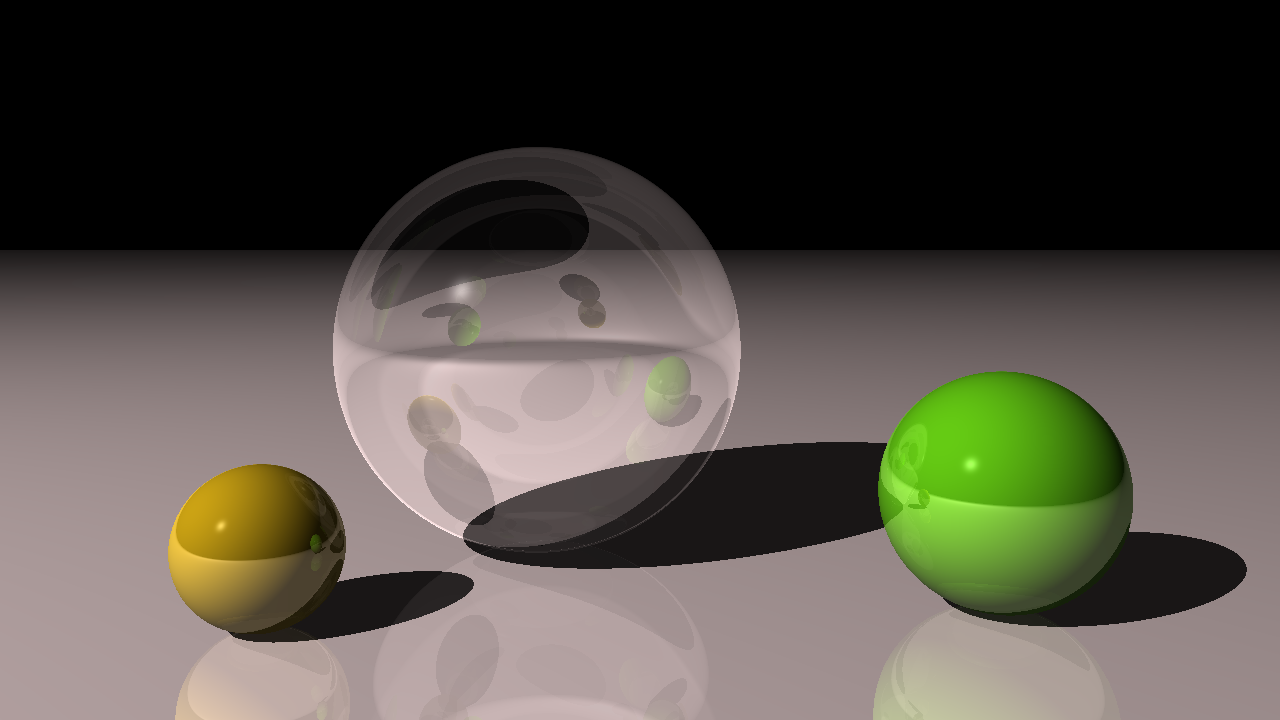
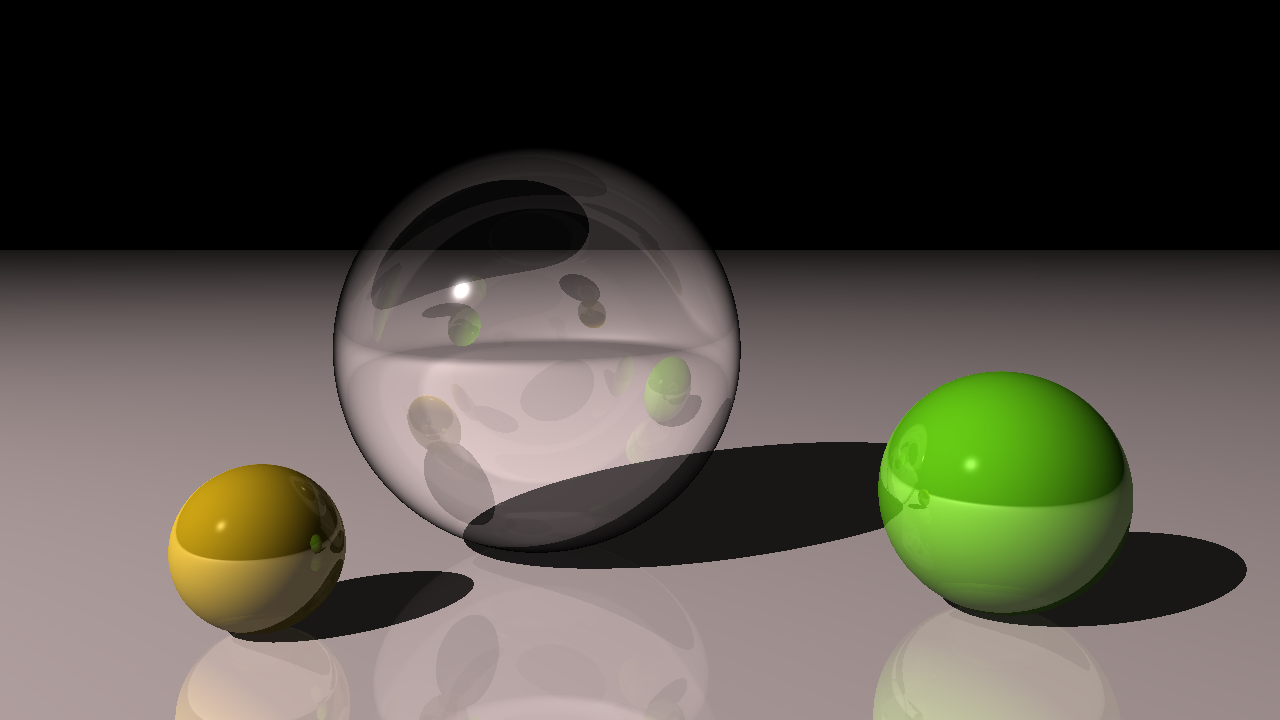
Chapter 12 implemented

diff --git a/src/Main/Main.java b/src/Main/Main.java
@@ -310,10 +310,10 @@ public class Main {
         return c.renderMultiThread(w, -1);
     }
 
-    private static Canvas refractiveWorld() { // program 8 --Chapter 12
+    private static Canvas refractiveWorld() { // program 9 --Chapter 12
 
-        // Note(AbduEhab): The transparent sphere still casts shadows which is weird and
-        // I need to fix that. Prob just gonna have to do some majic with the shadow
+        // Note(AbduEhab): The transparent sphere still casts shadows which is weird.
+        // I need to fix that. Prob just gonna have to do some magic with the shadow
         // detection logic.
 
         Shape floor = new XZPlane();
@@ -321,8 +321,8 @@ public class Main {
 
         Sphere middleSphere = new Sphere();
         middleSphere.setTransform(Matrix.IDENTITY.translate(-0.5, 1, 0.5));
-        middleSphere.getMaterial().setColor(new Color(0, 0, 0)).setDiffuse(1).setSpecular(1).setReflectiveness(0.5)
-                .setTransparency(1);
+        middleSphere.getMaterial().setColor(new Color(0, 0, 0)).setDiffuse(0.1).setSpecular(1).setReflectiveness(0.3)
+                .setShininess(300).setTransparency(1);
 
         Sphere rightSphere = new Sphere();
         rightSphere.setTransform(Matrix.IDENTITY.translate(1.5, 0.5, -0.5).scale(0.5, 0.5, 0.5));

diff --git a/src/Models/World.java b/src/Models/World.java
@@ -52,9 +52,7 @@ public class World {
 
         for (Light light : lights) {
 
-            boolean inShadow = false;
-
-            inShadow = isShadowed(c.getOverPoint(), light);
+            boolean inShadow = isShadowed(c.getOverPoint(), light);
 
             res = res.add(c.getShape().getMaterial().lighting(light, c.getShape(), c.getPoint(), c.getEyeVector(),
                     c.getNormalVector(), inShadow));
@@ -69,7 +67,8 @@ public class World {
 
                 double reflectiveness = c.schlick();
 
-                res = res.add(reflectionMap.multiply(1 - reflectiveness)).add(refractionMap.multiply(1 - reflectiveness));
+                res = res.add(reflectionMap.multiply(1 - reflectiveness))
+                        .add(refractionMap.multiply(1 - reflectiveness));
             } else
                 res = res.add(reflectionMap).add(refractionMap);
 

diff --git a/src/Tests/IntersectionTests.java b/src/Tests/IntersectionTests.java
@@ -96,7 +96,7 @@ public class IntersectionTests {
 
                 ArrayList<Intersection> xs = new ArrayList<Intersection>(Arrays.asList(intersections));
 
-                Double[][] results = { { 1.0, 1.5 }, { 1.5, 2d }, { 2d, 2.5 }, { 2.5, 2d }, { 2d, 2.5 }, { 2.5, 1.5 } };
+                Double[][] results = { { 1.0, 1.5 }, { 1.5, 2d }, { 2d, 2.5 }, { 2.5, 2.5 }, { 2.5d, 1.5 }, { 1.5, 1d } };
 
                 for (int i = 0; i < intersections.length; i++) {
                         Computation comp = intersections[i].prepareComputate(r, xs);
